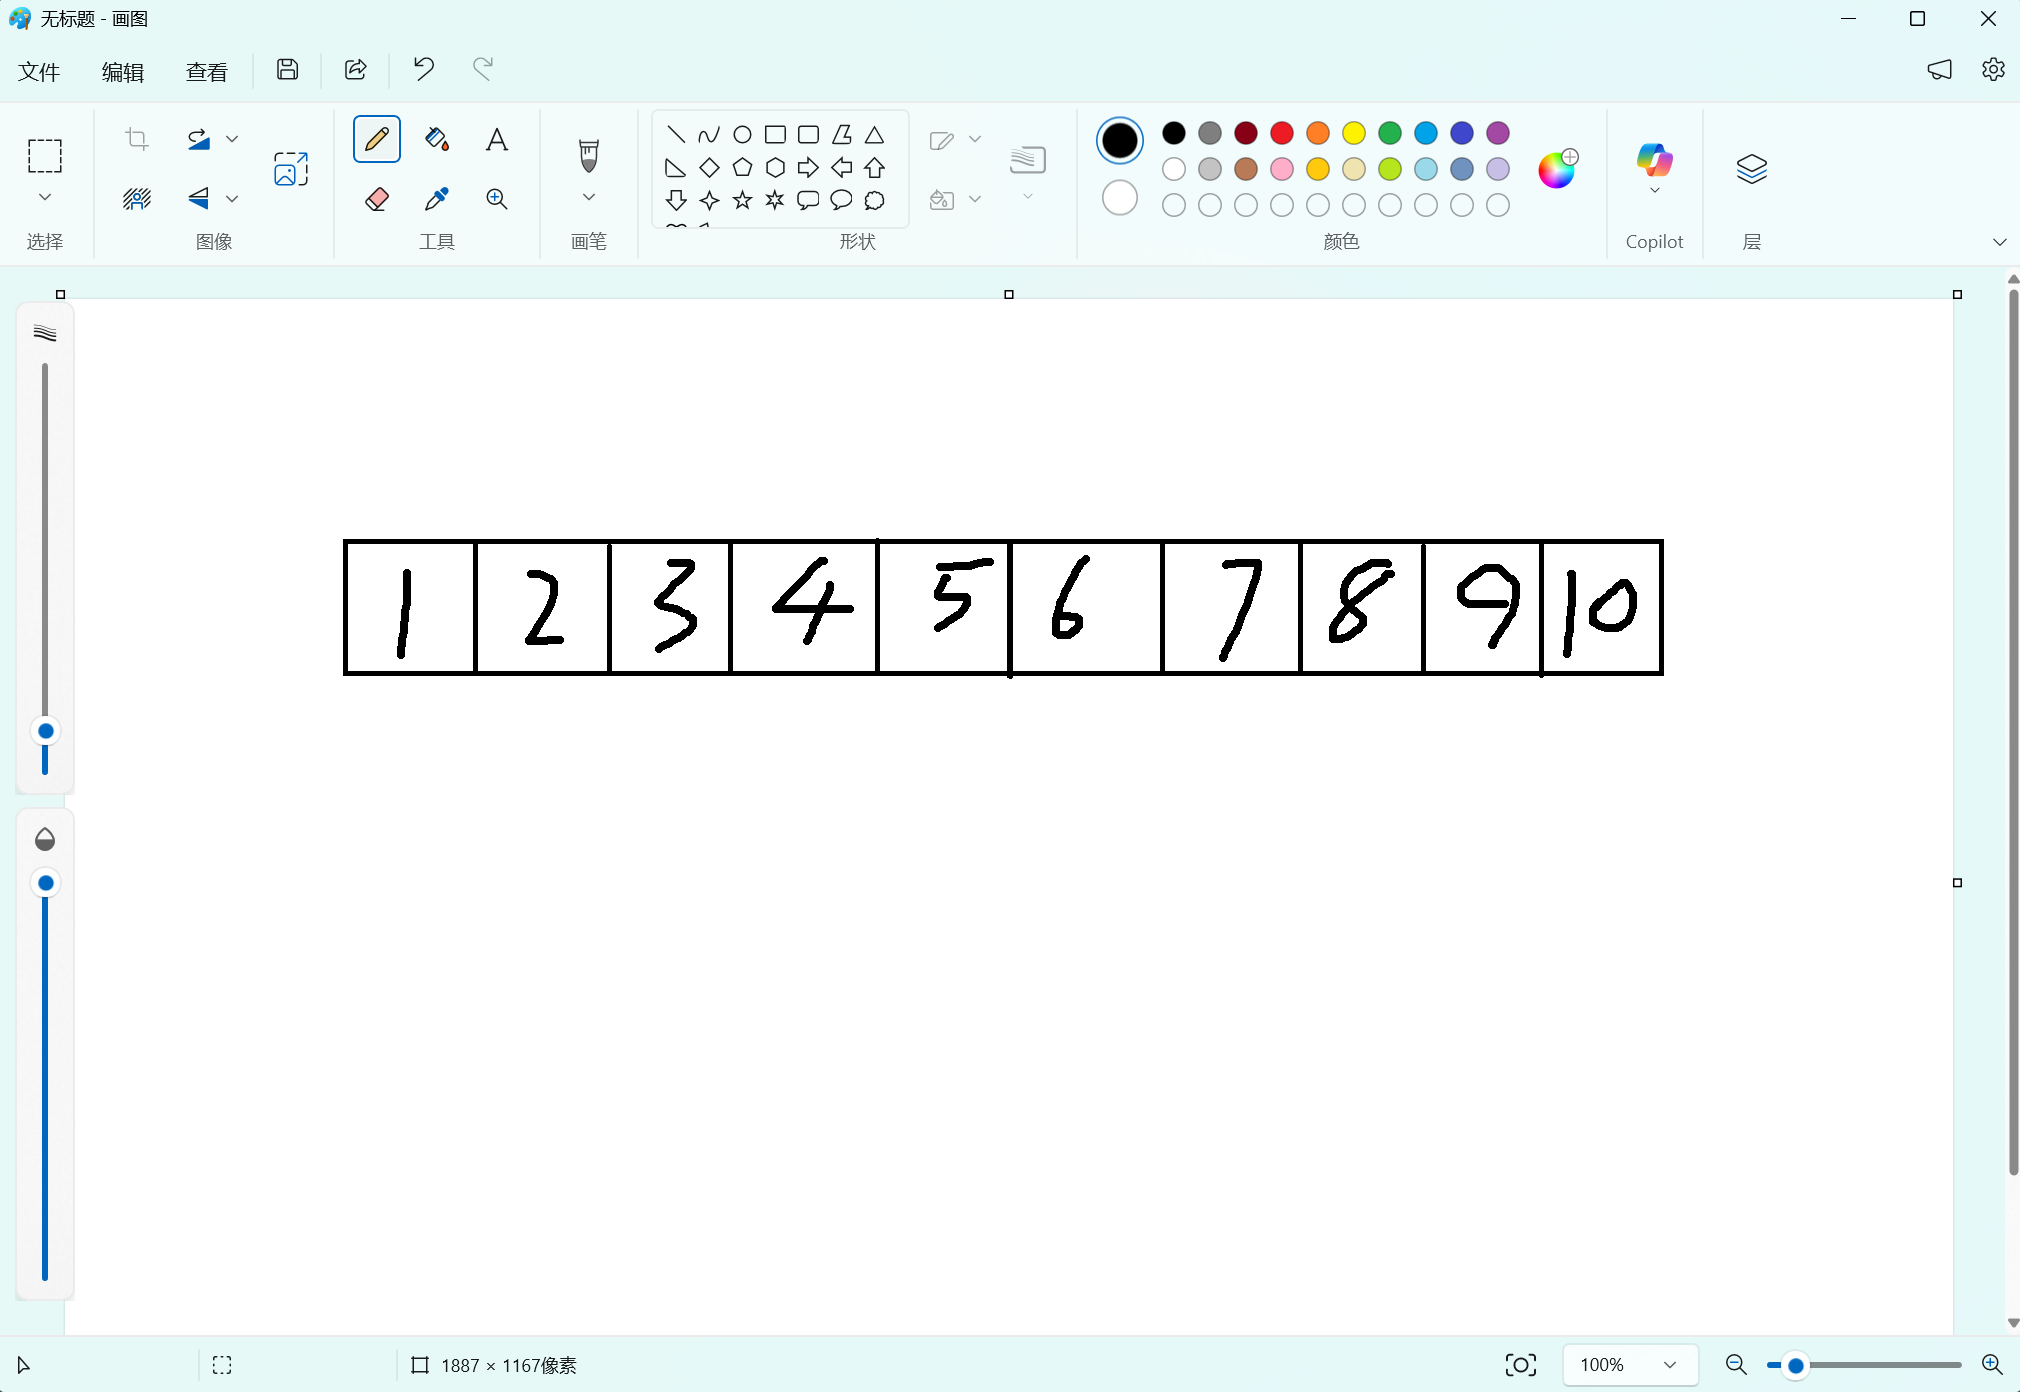
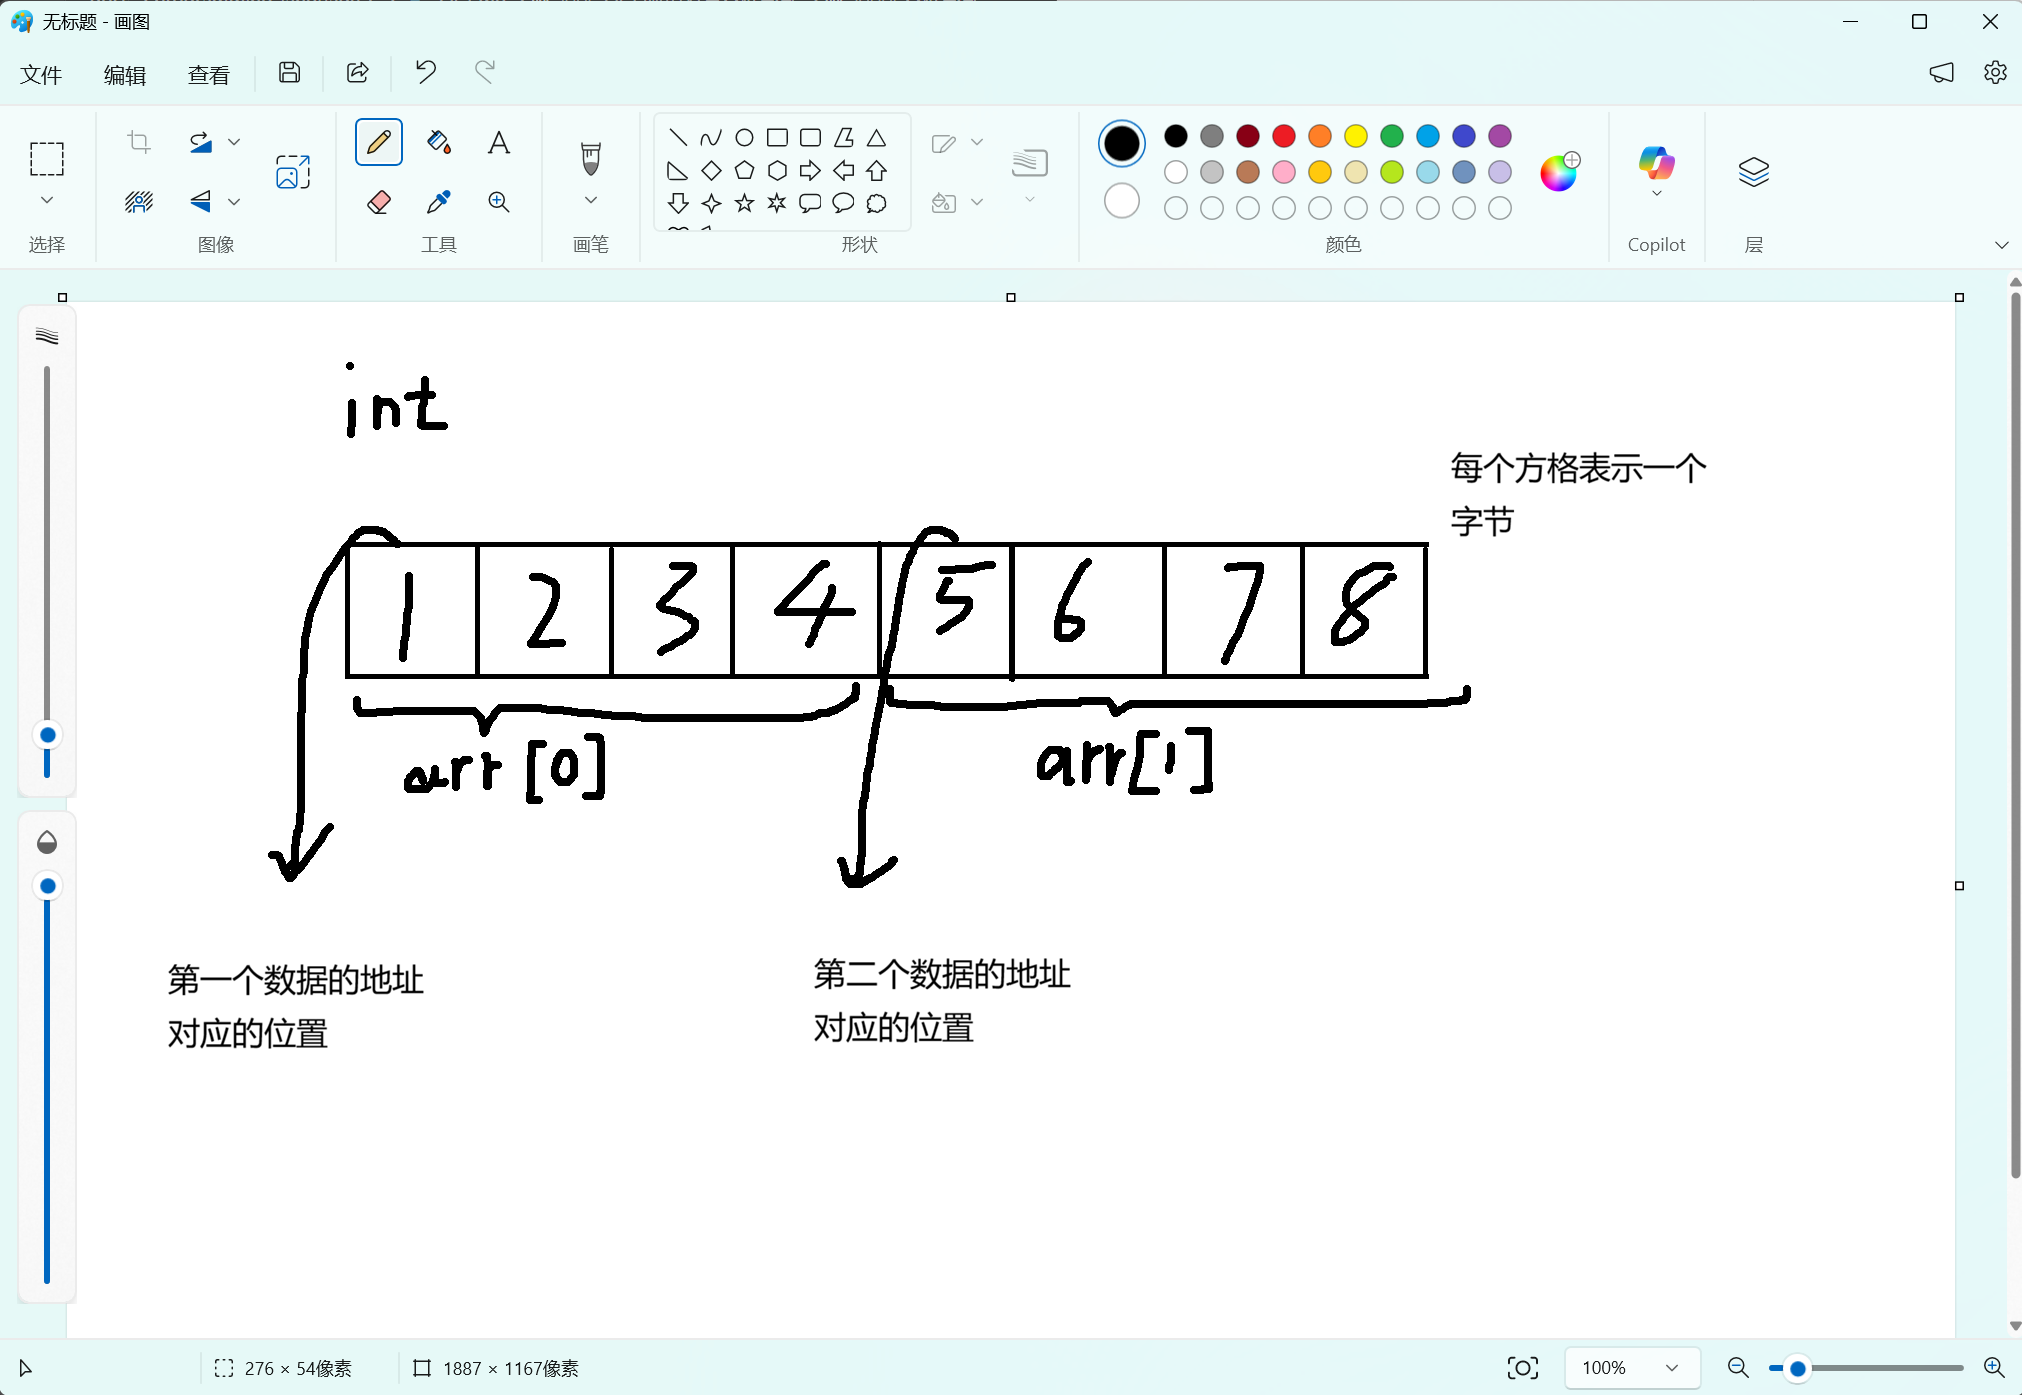
modify the illustration of array memory

diff --git a/docs/programming-language-c/2.4.1.md b/docs/programming-language-c/2.4.1.md
@@ -17,11 +17,20 @@
 
 什么叫连续的存储空间呢?
 
-我们可以把内存比喻为一个居民区，每个单独的"居民"(数据)都占有自己的一间"房子"，每一间房子都有单独的编号(也就是地址，16进制编码)
-
-而数组，就是把这几个"居民"互相组成邻居，让他们的地址相邻
+直观地说，就是这一段存储空间的地址是连续的
+地址，就是指内存中每个字节对应位置的**一个编号**
+如果我们可以对上一个数据的地址编号进行加减运算来得到下一个数据的地址编号，那就是连续的
+而我们用数组中的数据所占用的第一个字节的地址来代指这个数据所在的位置
+从这个字节到下一个数据的地址之前，都用来容纳这个数据
 
 ![](../assets/images/2.4/arrStorage.png)
+
+我们可以把内存比喻为一个居民区
+每个单独的"居民"(数据)都占有自己的一间"房子"(当然这个房子或大或小，也就是数据占用的内存大小)
+每一间房子门牌上都有单独的编号(也就是地址，16进制编码)
+
+而数组，就是把这几个"居民"互相组成邻居，让他们的房子相邻
+
 
 而如果我们输出一下这样的一个int数组的每个元素的地址
 
@@ -29,10 +38,10 @@
 
 可以看到
 因为一个int类型数据占用4字节的内存大小
-所以每次输出的地址之间都隔了个4
+所以每次输出的地址之间都隔了个4，这也就是"房子"的大小
 就比如说，第三个末4位是FB50
 第四个是FB54
 之后是FB58
 
-
-
+而我们在这里看到的输出结果，就是"房子门牌"上的地址
+也就是每个int数据所占用的第一个字节的地址

diff --git a/docs/programming-language-c/2.4.3.md b/docs/programming-language-c/2.4.3.md
@@ -1,0 +1,1 @@
+### 二维数组
